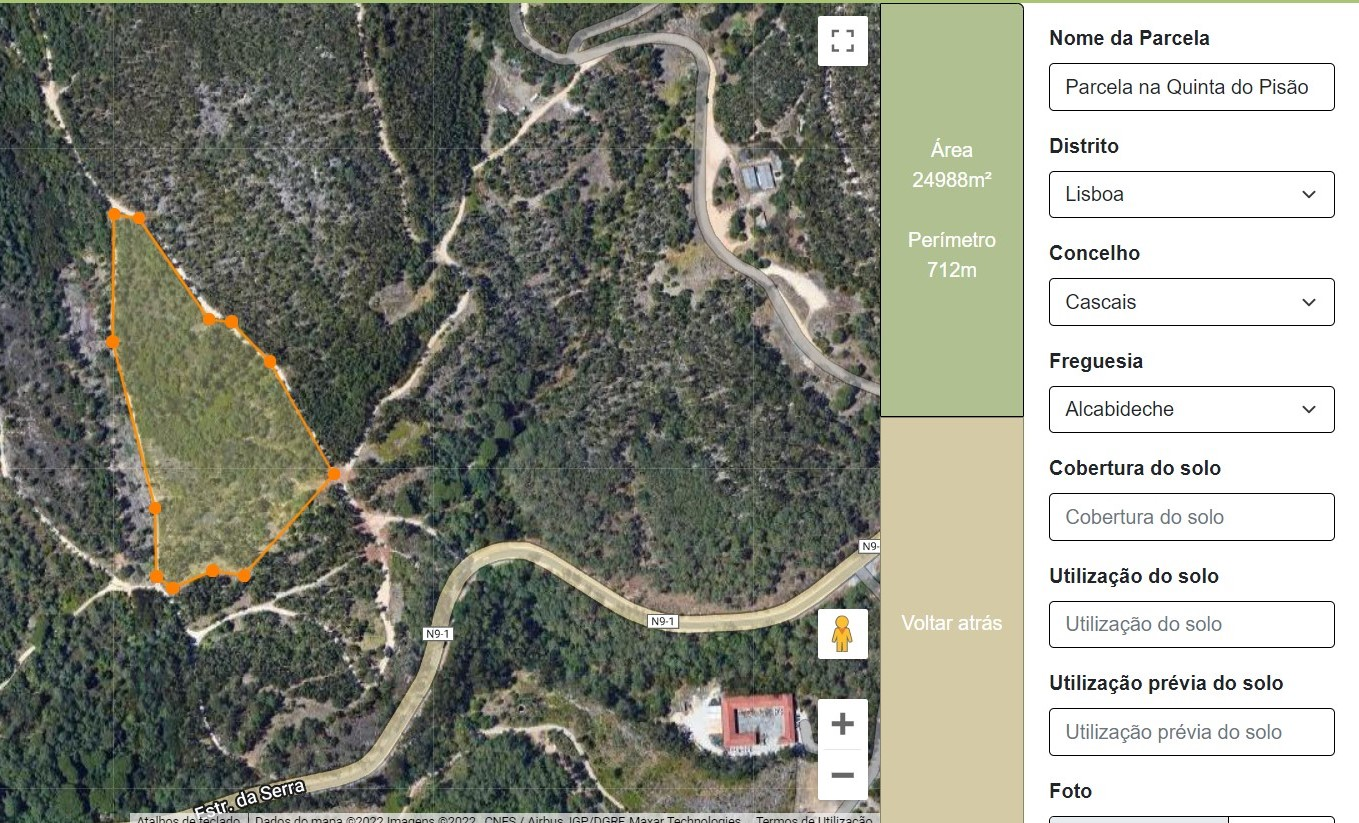
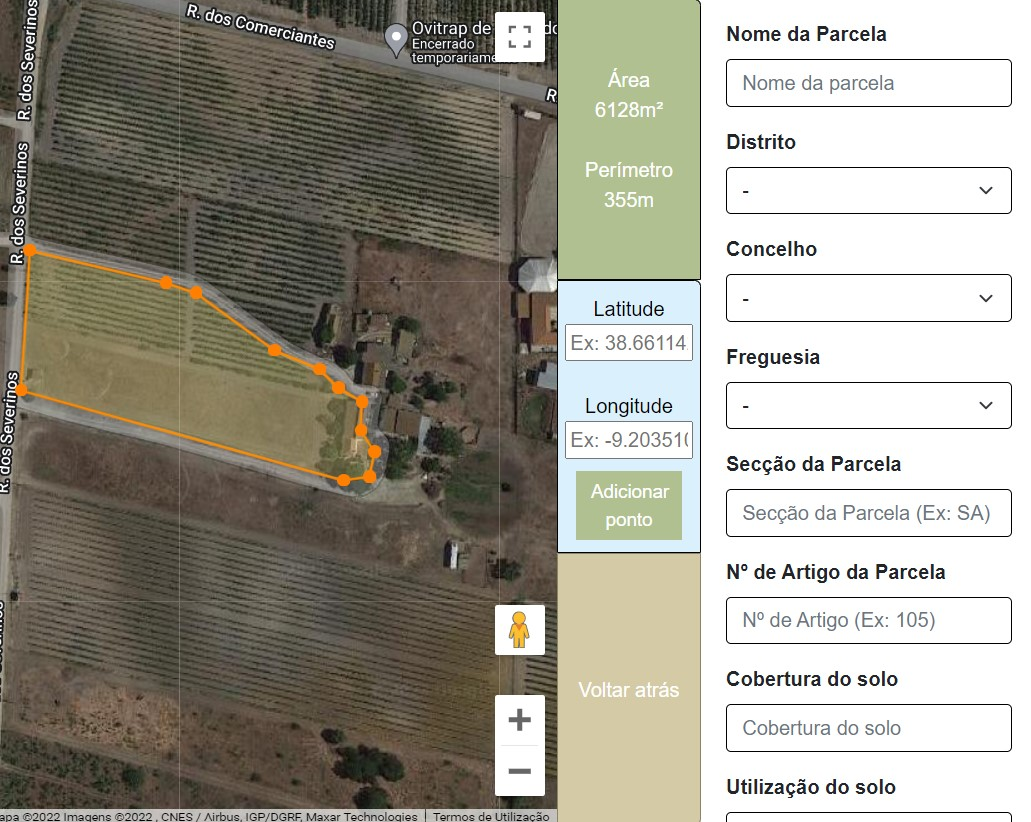
Main page update
And button update on Map page

diff --git a/Proj/e-floresta-react/src/App.js b/Proj/e-floresta-react/src/App.js
@@ -124,13 +124,13 @@ const Home = () => {
                     <h1>
                         O que é o projeto E-Floresta?
                     </h1>
-
+                    <br/>
                     O interior de Portugal está a viver um processo de desertificação populacional provocado pelo movimento
                     dos mais jovens para o litoral e pelo envelhecimento da população com graves consequências económicas,
                     sociais e ambientais. Em particular, a gestão da floresta torna-se incomportável, dando origem a perdas
                     económicas e ambientais resultantes dos incêndios florestais. Assim, a autarquia de Mação pretende
                     reordenar o seu território liderando uma iniciativa que promove a gestão integrada dos terrenos florestais
-                    para ganhar escala e reduzir custos. <p> Esta plataforma web permite registar a adesão voluntária dos proprietários
+                    para ganhar escala e reduzir custos. <p> <br/> Esta plataforma web permite registar a adesão voluntária dos proprietários
                     a esta iniciativa comunitária e, posteriormente, seguir a sua gestão em termos de custos e proveitos. </p>
                 </div>
                 <div>

diff --git a/Proj/e-floresta-react/src/Map/Map.js b/Proj/e-floresta-react/src/Map/Map.js
@@ -343,12 +343,12 @@ const Map = () => {
 
                         <Form.Group className="mt-3" controlId="formParcelSection">
                             <Form.Label> <strong>Secção da Parcela</strong> </Form.Label>
-                            <Form.Control className="map_fields" required type="text" placeholder="Secção da Parcela" maxLength="2"/>
+                            <Form.Control className="map_fields" required type="text" placeholder="Secção da Parcela (Ex: SA)" maxLength="2"/>
                         </Form.Group>
 
                         <Form.Group className="mt-3" controlId="formParcelArticalNum">
                             <Form.Label> <strong>Nº de Artigo da Parcela</strong> </Form.Label>
-                            <Form.Control className="map_fields" required type="number" placeholder="Nº de Artigo" maxLength="3"/>
+                            <Form.Control className="map_fields" required type="number" placeholder="Nº de Artigo (Ex: 105)" maxLength="3"/>
                         </Form.Group>
 
                         <Form.Group className="mt-3" controlId="formParcelCover">

diff --git a/Proj/e-floresta-react/src/Map/Map.css b/Proj/e-floresta-react/src/Map/Map.css
@@ -53,6 +53,25 @@
     margin: auto;
 }
 
+#submit_latlng{
+    border: none;
+    border-radius: 0;
+    outline: 0;
+    display: inline-block;
+    color: white;
+    background-color: #b0c090;
+    text-align: center;
+    cursor: pointer;
+    height: 27% !important;
+    width: 75% !important;
+    font-size: 15px;
+}
+
+#submit_latlng:hover{
+    background-color: #3E503A;
+    border-color: #3E503A;
+}
+
 #rollback{
     border-radius: 0 0 5px 0;
     height: 33%;

diff --git a/Proj/e-floresta-react/src/App.css b/Proj/e-floresta-react/src/App.css
@@ -115,7 +115,7 @@ img{
 
 .hero-text-faq_Home button {
     border: none;
-    border-radius: 0px;
+    border-radius: 0;
     outline: 0;
     display: inline-block;
     padding: 10px 25px;
